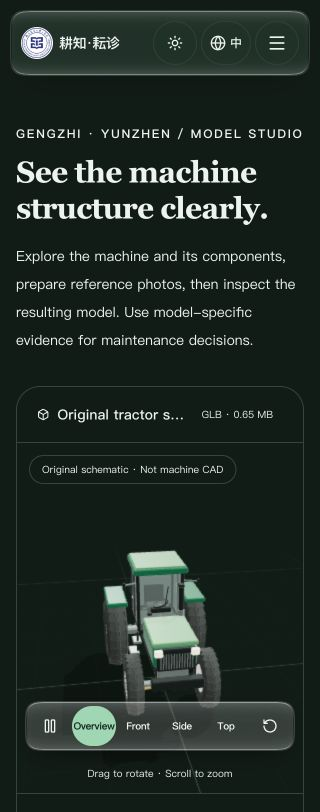
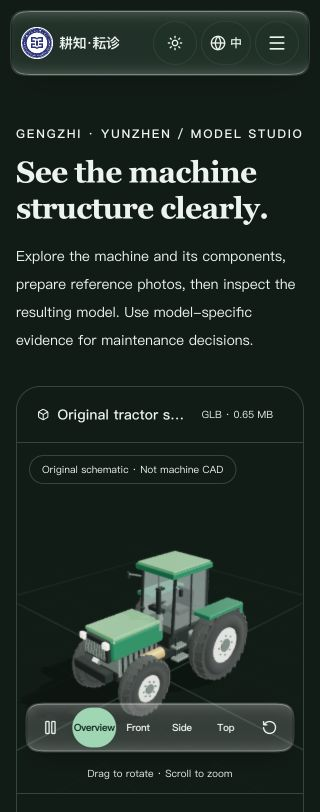
docs: save v2.4.5 verification and defer further deployment to v3

Changed region(s): [[0.0938, 0.6773, 0.9062, 0.9236], [0.0625, 0.0308, 0.1875, 0.0924], [0.5938, 0.9236, 0.625, 0.9544]]

diff --git a/README.md b/README.md
@@ -96,7 +96,7 @@ NODE_ENV=production PORT=3000 npm start
 
 部署须包含`dist/`、`server.ts`、`server/`、`package.json`、完整`知识库/`及`public/`，并从仓库根启动；仅上传`dist/`不能提供API和归档检索。按现有主机/平台配置进程管理、端口与反向代理。
 
-发布后实际检查`/api/health`的版本和归档条目数，以及`/`、`/#/chat`、JS/CSS资源和模型接口；再核对有资料机型的来源回答、未知/冲突型号的资料不足行为。GitHub推送、本地生产运行、线上发布分别验收。本轮隔离生产验收见[部署前记录](docs/deployment/2026-10-04-production-validation.md)。后续实际线上核验已确认2.2.2、20来源/165条/174片段及型号过滤；2.2.3起改用HashRouter，对话页地址为`/#/chat`，静态托管无需SPA重写即可直接打开/刷新。干净路径`/chat`仍依赖托管层重定向，见[线上验收记录](docs/deployment/2026-10-04-live-validation.md)。
+发布后实际检查`/api/health`的版本和归档条目数，以及`/`、`/#/chat`、JS/CSS资源和模型接口；再核对有资料机型的来源回答、未知/冲突型号的资料不足行为。GitHub推送、本地生产运行、线上发布分别验收。历史隔离生产验收见[部署前记录](docs/deployment/2026-10-04-production-validation.md)。2026-10-04的历史线上核验确认2.2.2、20来源/165条/174片段及型号过滤；2.2.3起改用HashRouter，对话页地址为`/#/chat`，静态托管无需SPA重写即可直接打开/刷新。干净路径`/chat`仍依赖托管层重定向，见[线上验收记录](docs/deployment/2026-10-04-live-validation.md)。
 
 ## LLM 选择策略
 
@@ -321,17 +321,18 @@ AgriDx-v2/
 5. **首页左上角加入学院标识**：使用经确认的学院 logo，在首页左上角安排合适的位置、比例与留白，并核对桌面及移动端显示。
 6. **拖拉机更换更精细的模型**：改善现有拖拉机模型的结构细节、材质与展示效果，同时验证加载速度、交互和移动端表现。
 7. **快速建模与多角度照片重建**：探索多角度照片生成完整三维模型的流程，评估混元及板书所写“magic”等工具的建模协同；板书缩写及具体工具名称待确认，模型完整性和可用性须实际验证。
-8. **优化 UI，提升界面质感与特色**：探索 GPT 与 Figma 协同设计并落实到前端，改善布局、视觉层级、交互和品牌一致性，核对桌面与移动端实际效果。账号已连接，同轮已建立[可编辑 Figma 初稿](https://www.figma.com/design/ewGYhGwx5rdfu5ubKbKpZS)，包含首页、四级农机知识、模型工坊及375px知识页，知识覆盖卡已修正为桌面四列、手机两列七行，其余页面仍待最终视觉验收；2.4.5网页参考苹果官方WWDC改进液态玻璃导航和操作层，见[设计依据与验证](docs/design/2026-10-09-liquid-glass-reference.md)。页面范围、协同方式与限制见[Figma交接记录](docs/design/2026-10-09-figma-handoff.md)。
+8. **优化 UI，提升界面质感与特色**：探索 GPT 与 Figma 协同设计并落实到前端，改善布局、视觉层级、交互和品牌一致性，核对桌面与移动端实际效果。账号已连接，2.4.3基线已建立[可编辑 Figma 初稿](https://www.figma.com/design/ewGYhGwx5rdfu5ubKbKpZS)，包含首页、四级农机知识、模型工坊及375px知识页；后续仅修复知识覆盖卡为桌面四列、手机两列七行，其余页面仍待最终视觉验收。2.4.5网页参考苹果官方WWDC改进液态玻璃导航和操作层，尚未同步到该Figma稿，见[设计依据与验证](docs/design/2026-10-09-liquid-glass-reference.md)。页面范围、协同方式与限制见[Figma交接记录](docs/design/2026-10-09-figma-handoff.md)。
 9. **品牌 → 型号 → 组件 → 零部件的分层故障与性能覆盖**：按品牌、完整型号及适用配置建立组件和零部件的从属关系，逐层整理运行故障表现、受影响的性能、原因线索及对应的诊断、处置与预防策略；关联零部件异常、组件功能变化和整机运行表现，支持从整机现象向下排查、从零部件异常向上分析影响，逐步实现从零部件到整机的故障与性能全覆盖。
 
 **推进与验收记录**：逐项记录“有什么问题 → 如何解决 → 解决后的效果”，同步版本号与迭代结果；本地验证、GitHub保存和线上部署分别记录。分层故障策略保留来源、页码、型号与配置适用范围，资料缺口标记“待补资料／待核实”，各层级的覆盖情况以已核验条目和验证结果为准。当前已实现四级资料导航和适用范围检索，212条归档资料均有组件导航关联；具体零部件仅在原文有依据时细分，尚未完成故障因果与整机性能全覆盖。
 
-## 同步部署
+## GitHub保存与部署约定
 
 - GitHub：https://github.com/Changjie29/AgriDx-v2
 - 本地工作区：clone 仓库后在根目录执行 `npm install` 即可开发，无需额外配置路径
-- 境内免梯子部署：`agridx.xyz` 此前挂在 OpenAI ChatGPT Sites 上，其边缘拦截境内 IP；迁往香港服务器（免备案）的一键脚本与操作清单见[香港部署指南](docs/deployment/2026-10-07-hk-deployment.md)
-- 同步方式：完成用户授权的修改及必要验证后，默认将代码和知识库提交并推送到 `main`，继续部署到现有网站，无需用户再次提醒；用户明确要求暂缓提交、暂缓部署或仅在本地修改时按其要求执行。部署后核验线上效果并记录真实状态，GitHub推送本身不代表网站已经部署。
+- 现有公开站点`agridx.xyz`仍使用OpenAI ChatGPT Sites；香港迁移脚本尚未执行，作为备用方案保存在[香港部署指南](docs/deployment/2026-10-07-hk-deployment.md)。境内访问限制以实际网络核验为准。
+- 同步方式：完成用户授权的修改及必要验证后，默认将代码和知识库提交并推送到`AgriDx-v2/main`。2026-10-10最新要求为**v2只保存GitHub，后续v3再部署**，替换此前默认继续部署的约定；不再发起网站部署，也不自行恢复自动发布任务。用户明确要求暂缓提交或仅在本地修改时按其要求执行。
+- 2.4.5实现已保存GitHub；停止部署要求到达时，此前发出的Sites请求已经执行，回执为版本19成功。之后未再发起部署，亦未执行回滚发布；实际状态与验证边界见[本轮保存与发布记录](docs/deployment/2026-10-10-liquid-glass-status.md)。
 
 ---
 

diff --git a/docs/deployment/2026-10-10-liquid-glass-status.md b/docs/deployment/2026-10-10-liquid-glass-status.md
@@ -1,0 +1,35 @@
+# 2.4.5 GitHub保存与发布状态
+
+记录日期：2026-10-10，上海时区。项目版本保持2.4.5，低于2.5.0。
+
+## 当前约定
+
+用户最新要求：**v2只存GitHub，后续v3再部署**。AGENTS.md与README已替换此前默认继续部署的约定。之后未再发起部署，未执行回滚发布，未恢复自动发布任务。
+
+实现提交：[8a50900](https://github.com/Changjie29/AgriDx-v2/commit/8a50900dd33391d5a600fa156cd84fa63cdd7056)，分支`main`。本记录、默认约定与最终模型截图作为同一2.4.5范围的后续日志提交保存。
+
+## 已发请求的实际结果
+
+停止部署要求到达时，此前按旧约定发出的请求已在执行。原生回执返回成功，不能将此次记录写成“从未部署”。
+
+- 原公开网站：[耕知·耘诊](https://agridx.xyz)，访问范围未变。
+- Sites项目：`appgprj_6ab5efd42cc48191a3bee1276e02c952`。
+- 保存版本：19，`appgprj_6ab5efd42cc48191a3bee1276e02c952~appgver_e7ab0c5663988191a82543668f7cf777`。
+- Sites源码：`fe8322ee556f30501e4f0b451f1faa7b3aae947c`；发布来源指向上述GitHub实现提交与2.4.5。
+- 部署：`appgdep_6ac98896de908191b0a58fc0deaaf72f`，回执`succeeded`，无失败信息，完成时间2026-10-10 08:36:55（上海）。
+- 服务返回地址：[Sites原地址](https://agridx.z3464715478.chatgpt.site)。
[1 lines of base64/hex data omitted]
+
+现有Sites适配保留Worker与知识检索接口；仅同步本轮8个前端文件、版本和文档。Sites构建入口指向既有`build:sites`，不改变GitHub的Node构建入口。修复该发布源码原锁文件缺失的12项可选平台/捆绑依赖元数据，原有依赖条目版本未变；未为玻璃UI增加依赖。
+
+## 验证范围
+
+- 根仓库和发布源码的90项回归、类型检查、lint与前后端构建通过，保留既有Fast Refresh及Three.js体积警告。
+- 发布源码索引校验0错误，26来源、212归档条目、221片段；15项Worker回归通过，包括97目录与Node实现的组件/零部件对照。
+- 桌面、375px与320px本地浏览器检查见[设计验证记录](../design/2026-10-09-liquid-glass-reference.md)。截图为本地结果，不当作线上视觉验收。
+- 原生部署成功是本次线上状态依据；用户停止部署后，未继续运行线上HTTP或浏览器验收，未验证真实外部LLM或实车效果。
+- Figma仅修复2.4.3基线的知识覆盖卡；2.4.5网页改动尚未同步到Figma，不代表全稿已验收。
+
+## 自动发布
+
+用户最新反馈“已暂停”，并明确要求不再处理该任务、只完成GitHub v2保存。依此停止任务管理与额外核验；此处记录用户反馈，不宣称已由接口确认暂停。后续不得主动恢复自动发布或部署v2。

diff --git a/docs/design/2026-10-09-liquid-glass-reference.md b/docs/design/2026-10-09-liquid-glass-reference.md
@@ -44,6 +44,6 @@
 - 320px英文原先菜单右缘超出边界，现隐藏副标题并收紧品牌组，头部scrollWidth=clientWidth=298px，全部工具按钮完整显示。320px模型六个操作均为44×44px，375px亦可操作。
 - 首页省去完整dock时默认保持静止，避免失去暂停入口后的持续自转；仍支持拖拽查看。减少动态、减少透明度、无背景滤镜及关闭玻璃的回退经过源码检查，本轮未通过系统设置分别现场触发，未做Safari/Firefox或真实设备FPS测试。
 - Figma知识卡修正见[协同记录](2026-10-09-figma-handoff.md)，为2.4.3基线的修复；当前2.4.5网页效果尚未同步到Figma。截图记录不代表完整Figma长页验收。
-- GitHub提交与部署结果在完成后记录；沿用原公开站点，不以本地构建或GitHub推送代替线上部署成功证明。
+- 实现已保存到GitHub：[8a50900](https://github.com/Changjie29/AgriDx-v2/commit/8a50900dd33391d5a600fa156cd84fa63cdd7056)。用户最新要求v2仅存GitHub、v3再部署；已停止后续发布。此前发出的请求返回Sites版本19成功，未另做线上HTTP/浏览器验收，详情见[真实状态记录](../deployment/2026-10-10-liquid-glass-status.md)。本地截图仍仅证明本地浏览器状态。
 
-[桌面首页](2026-10-09-liquid-glass/home-desktop.jpg) · [桌面模型控件](2026-10-09-liquid-glass/model-desktop.jpg) · [375px知识页](2026-10-09-liquid-glass/knowledge-mobile.jpg) · [320px英文暗色](2026-10-09-liquid-glass/model-320-dark-en.png) · [375px英文模型](2026-10-09-liquid-glass/model-mobile-dark-en.png) · [375px首页](2026-10-09-liquid-glass/home-mobile.png)
+本地浏览器截图：[桌面首页](2026-10-09-liquid-glass/home-desktop.png) · [桌面模型控件](2026-10-09-liquid-glass/model-desktop.jpg) · [375px知识页](2026-10-09-liquid-glass/knowledge-mobile.jpg) · [320px英文暗色](2026-10-09-liquid-glass/model-320-dark-en.png) · [375px英文模型](2026-10-09-liquid-glass/model-mobile-dark-en.png) · [375px首页](2026-10-09-liquid-glass/home-mobile.png)

diff --git a/CHANGELOG.md b/CHANGELOG.md
@@ -12,7 +12,8 @@
 - 仅四级知识筛选使用雾面玻璃，故障策略、资料卡、缺口与来源保持实底；关闭全页聚光与滚动形变，补齐减少动态、减少透明度、无背景滤镜及关闭玻璃的实底回退。
 - Figma基线的知识卡通过已登录浏览器修正：手机两列七行、桌面四列四行，各14张实例。原始参考稿整理、缺失字体及全页视觉验收仍待完成，2.4.5网页效果未自动同步到Figma。
 - 验证：90项回归测试、类型检查、lint、前后端构建通过，保留既有Fast Refresh及Three.js体积警告；桌面与375px知识/模型、320px英文暗色、模型键盘控制和四级选择联动通过，无浏览器错误。回退规则做源码检查，未做跨浏览器或真实设备帧率测试；本轮未新增维修事实。
-- 对应实现提交与现有网站部署终态在完成后随同一2.4.5范围的日志记录补充。GitHub保存、本地验证与线上发布分别记录。
+- 对应实现提交：[8a50900](https://github.com/Changjie29/AgriDx-v2/commit/8a50900dd33391d5a600fa156cd84fa63cdd7056)。发布包索引0错误、90项项目与15项Worker测试、类型检查、lint及构建通过；既有警告保留。
+- 用户最新要求改为v2只保存GitHub，后续v3再部署；AGENTS.md与README同步更新，停止后续发布。要求到达时，此前发出的Sites请求已执行，版本19原生回执为succeeded，完成于上海2026-10-10 08:36:55；未另跑线上HTTP或浏览器验收、未发起回滚。来源、ID及边界见[保存与发布记录](docs/deployment/2026-10-10-liquid-glass-status.md)。日志及最终模型截图随同一2.4.5范围补充保存，不另升版。
 
 ## 2.4.4 — 2026-10-09
 

diff --git a/AGENTS.md b/AGENTS.md
@@ -1,6 +1,6 @@
 # 项目版本与更新记录
 
-- 本项目完成用户授权的修改及必要验证后，默认提交并推送到GitHub，然后继续部署到现有网站，无需用户再次提醒；用户明确要求暂缓提交、暂缓部署或仅在本地修改时按其要求执行。部署后核验线上效果并记录真实状态。
+- 本项目完成用户授权的修改及必要验证后，默认提交并推送到GitHub。用户2026-10-10最新要求：v2阶段只保存到AgriDx-v2仓库，不部署网站；后续v3再安排部署。该要求替换此前默认继续部署的约定；不得因本地构建或GitHub推送自动触发发布，也不得自行恢复自动发布任务。用户明确要求暂缓提交或仅在本地修改时按其要求执行。
 - 每次完成用户授权的更新并提交GitHub时，按最终改动幅度递进项目版本，同时更新`CHANGELOG.md`和README当前版本；不要只提交代码而遗漏版本日志。
 - 小修、文案、样式或少量知识补充增加补丁号，例如`2.1.0 → 2.1.1`；新增功能、显著行为改变或大批资料及检索扩充增加次版本并将补丁号归零，例如`2.1.1 → 2.2.0`。
 - 用户最新要求本阶段不到2.5：项目版本必须低于`2.5.0`，保持`2.4.x`；本轮功能更新按用户指定上限沿用补丁递进。改动规模以最终交付为准，不按提交次数机械增加；同一轮更新的修正可合并为同一版本。

diff --git a/docs/deployment/2026-10-09-college-mark-deployment.md b/docs/deployment/2026-10-09-college-mark-deployment.md
@@ -26,4 +26,4 @@
 
 ## 后续默认流程
 
-用户授权的修改完成并通过必要验证后，默认提交、推送GitHub并继续部署现有网站，无需用户再次提醒。明确要求暂缓提交、暂缓部署或仅本地修改时遵循该要求；每次记录真实发布状态。约定已保存到AGENTS.md、README与现有项目身份文件`.openai/hosting.json`。
+2026-10-09当时的约定为完成验证后默认提交、推送GitHub并部署现有网站。**2026-10-10用户已用新要求替换：v2只保存AgriDx-v2的GitHub源码，后续v3再部署。** 当前以AGENTS.md与README的最新约定为准；本页上述2.4.4发布结果保留为历史记录。
